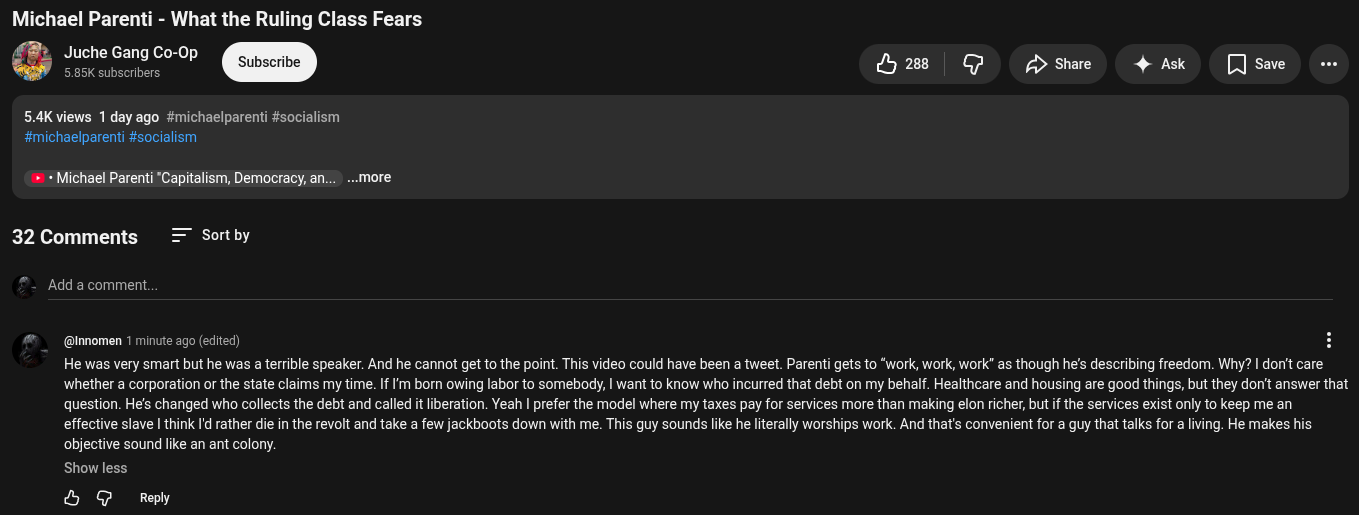
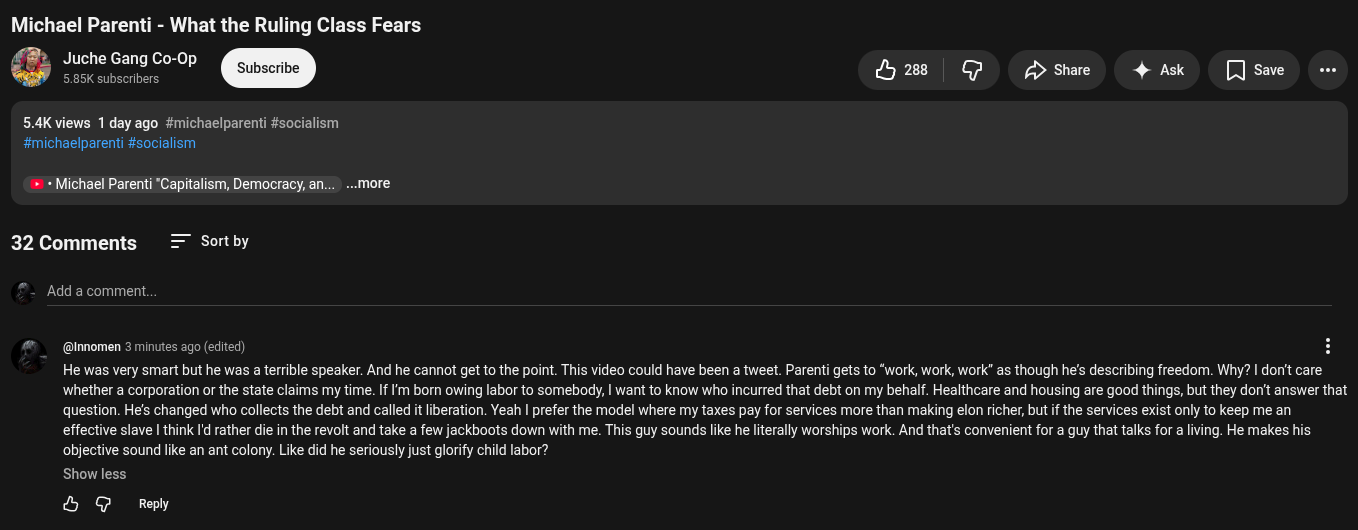
sync: 2 file change(s) 2026-09-29 09:07:11

diff --git a/ocr/Screenshot_20260929_090455.md b/ocr/Screenshot_20260929_090455.md
@@ -1,8 +1,8 @@
 ---
 type: public-take-ocr
 source_image: "../Screenshot_20260929_090455.png"
[1 lines of base64/hex data omitted]
-captured: "2026-09-29T09:05:07-05:00"
[1 lines of base64/hex data omitted]
+captured: "2026-09-29T09:07:05-05:00"
 ocr_engine: tesseract-5
 status: machine-transcribed
 tags: [my-takes, public-take, ocr]
@@ -15,13 +15,13 @@ tags: [my-takes, public-take, ocr]
 ## Machine transcription
 
 Michael Parenti - What the Ruling Class Fears
-Juche Gang Co-0p o
+Juche Gang Co-0p
 5.85K subscribers
 
 5.4K views 1 day ago #michaelparenti #socialism
 #michaelparenti #socialism
 
-be
+/288 CF A>share 4 Ask  [] Sae
 
 '+ + Michael Parenti "Capitalism, Democracy, an... ...more
 
@@ -29,17 +29,15 @@ be
 
 Add a comment.
 
-@nnomen 1 minute ago (edited)
+@nnomen 3 minutes ago (edited)
 
 He was very smart but he was aterrible speaker. And he cannot get to the point. This video could have been a tweet. Parenti gets to “work, work, work" as though he's describing freedom. Why? | donit care
-
-/288 C3 A share 4 Ak []Save e
-
 whether a corporation or the state claims my time. If ' born owing labor to somebody, | want to know who incurred that debt on my behalf. Healthare and housing are good things, but they don't answer that
 question. He's changed who collects the debt and called it liberation. Yeah | prefer the model where my taxes pay for services more than making elon richer, but if the services exist only to keep me an
+
 effective slave | think Id rather die in the revolt and take a few jackboots down with me. This guy sounds like he literally worships work. And that's convenient for a guy that talks for a iving. He makes his
+objective sound like an ant colony. Like did he seriously just glorify child labor?
 
-objective sound like an ant colony.
-Show less
+Show less.
 
-O @ Reply
+& G Reply
